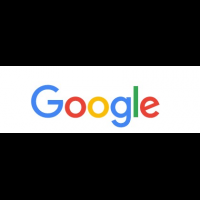
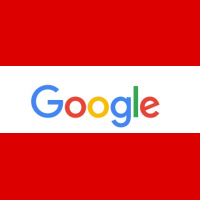
添加图片旋转功能

diff --git a/image/Image.php b/image/Image.php
@@ -10,7 +10,7 @@ class Image {
 	public $quality = 75;
 	
 	private $image, $filename, $original_info, $imagestring;
-	private $width, $height, $scale, $fixed_given_size, $keep_ratio, $given_width, $given_height, $bgcolor;
+	private $width, $height, $scale, $fixed_given_size, $keep_ratio, $given_width, $given_height, $bg_color, $angle;
 	
 	/**
 	 * Load an image
@@ -109,16 +109,6 @@ class Image {
 		return $this;
 	}
 	
-	/**
-	 * set background color
-	 * @param array $bgcolor
-	 * @return \com\jdk5\blog\Image\Image
-	 */
-	function bgcolor($bgcolor) {
-		$this->bgcolor = $bgcolor;
-		return $this;
-	}
-
 	/**
 	 * set generete image is fixed_given_size
 	 * @param boolean $fixed_given_size
@@ -233,10 +223,6 @@ class Image {
 		$this->given_height = ($this->given_height == 0 ? $height : $this->given_height);
 		
 		$this->copy($width, $height, 0, 0, 0, 0, $width, $height);
-		
-		if ($this->keep_ratio) {
-			$this->resize_image_and_keep_ratio();
-		}
 	}
 	
 	/**
@@ -286,8 +272,8 @@ class Image {
 				imagefill($new, 0, 0, $transparent_index);
 				imagecolortransparent($new, $transparent_index);
 	
-				if (!empty($this->bgcolor)) {
-					$bg = imagecolorallocate($new, $this->bgcolor[0], $this->bgcolor[1], $this->bgcolor[2]);
+				if (!empty($this->bg_color)) {
+					$bg = imagecolorallocate($new, $this->bg_color['r'], $this->bg_color['g'], $this->bg_color['b']);
 					imagefill($new, 0, 0, $bg);
 				}
 			}
@@ -297,9 +283,9 @@ class Image {
 			imagesavealpha($new, true);
 			$color = imagecolorallocatealpha($new, 0, 0, 0, 127);
 			imagefill($new, 0, 0, $color);
-			if (!empty($this->bgcolor)) {
-				$bg = imagecolorallocate($new, $this->bgcolor[0], $this->bgcolor[1], $this->bgcolor[2]);
-					imagefill($new, 0, 0, $bg);
+			if (!empty($this->bg_color)) {
+				$bg = imagecolorallocate($new, $this->bg_color['r'], $this->bg_color['g'], $this->bg_color['b']);
+				imagefill($new, 0, 0, $bg);
 			}
 		}
 		
@@ -333,8 +319,13 @@ class Image {
 	 *
 	 */
 	function save($filename = null, $quality = null, $format = null) {
+		if ($this->angle) {
+			$this->do_rotate();
+		}
 		$this->resize();
-		
+		if ($this->keep_ratio) {
+			$this->resize_image_and_keep_ratio();
+		}
 		// Determine quality, filename, and format
 		$quality = $quality ?  : $this->quality;
 		$filename = $filename ?  : $this->filename;
@@ -417,5 +408,112 @@ class Image {
 		}
 		
 		return $value;
+	}
+	
+	/**
+	 * Rotate an image
+	 *
+	 * @param int           $angle      0-360
+	 * @param string        $bg_color   Hex color string, array(red, green, blue) or array(red, green, blue, alpha).
+	 *                                  Where red, green, blue - integers 0-255, alpha - integer 0-127
+	 *
+	 * @return SimpleImage
+	 *
+	 */
+	function rotate($angle) {
+		$this->angle = $angle;
+		return $this;
+	}
+	
+	/**
+	 * set background color
+	 * @param array $bgcolor
+	 * @return \com\jdk5\blog\Image\Image
+	 */
+	function bg_color($bg_color){
+		$this->bg_color = $this->normalize_color($bg_color);
+		return $this;
+	}
+	
+	private function do_rotate() {
+		// Perform the rotation
+		if (empty($this->bg_color)) {
+			$bg_color = imagecolorallocatealpha($this->image, 0, 0, 0, 127);
+		} else {
+			$rgba = $this->normalize_color($this->bg_color);
+			$bg_color = imagecolorallocatealpha($this->image, $rgba['r'], $rgba['g'], $rgba['b'], $rgba['a']);			
+		}
+		$new = imagerotate($this->image, -($this->keep_within($this->angle, -360, 360)), $bg_color, 0);
+		imagesavealpha($new, true);
+		imagealphablending($new, true);
+		
+		// Update meta data
+		$this->original_info['width'] = imagesx($new);
+		$this->original_info['height'] = imagesy($new);
+		/* 
+		$this->width = imagesx($new);
+		$this->height = imagesy($new);
+		 */
+		$this->image = $new;
+		return $this;
+	}
+	
+	/**
+	 * Converts a hex color value to its RGB equivalent
+	 *
+	 * @param string        $color  Hex color string, array(red, green, blue) or array(red, green, blue, alpha).
+	 *                              Where red, green, blue - integers 0-255, alpha - integer 0-127
+	 *
+	 * @return array|bool
+	 *
+	 */
+	protected function normalize_color($color) {
+	
+		if (is_string($color)) {
+	
+			$color = trim($color, '#');
+	
+			if (strlen($color) == 6) {
+				list($r, $g, $b) = array(
+						$color[0].$color[1],
+						$color[2].$color[3],
+						$color[4].$color[5]
+				);
+			} elseif (strlen($color) == 3) {
+				list($r, $g, $b) = array(
+						$color[0].$color[0],
+						$color[1].$color[1],
+						$color[2].$color[2]
+				);
+			} else {
+				return false;
+			}
+			return array(
+					'r' => hexdec($r),
+					'g' => hexdec($g),
+					'b' => hexdec($b),
+					'a' => 0
+			);
+	
+		} elseif (is_array($color) && (count($color) == 3 || count($color) == 4)) {
+	
+			if (isset($color['r'], $color['g'], $color['b'])) {
+				return array(
+						'r' => $this->keep_within($color['r'], 0, 255),
+						'g' => $this->keep_within($color['g'], 0, 255),
+						'b' => $this->keep_within($color['b'], 0, 255),
+						'a' => $this->keep_within(isset($color['a']) ? $color['a'] : 0, 0, 127)
+				);
+			} elseif (isset($color[0], $color[1], $color[2])) {
+				return array(
+						'r' => $this->keep_within($color[0], 0, 255),
+						'g' => $this->keep_within($color[1], 0, 255),
+						'b' => $this->keep_within($color[2], 0, 255),
+						'a' => $this->keep_within(isset($color[3]) ? $color[3] : 0, 0, 127)
+				);
+			}
+	
+		}
+		return false;
 	}
 }

diff --git a/image/example/index.php b/image/example/index.php
@@ -12,13 +12,14 @@ $img->load('org.jpg')->height(200)->save('processed/org-height-resize.jpg');
 
 $img->load('org.png')->fixed_given_size(true)->keep_ratio(true)->save('processed/org-no-size-resize.png');
 
-$img->load('org.png')->bgcolor(array(100, 0, 0))->quality(100)->size(300, 300)->fixed_given_size(true)->keep_ratio(true)->save('processed/org-size-resize.png');
+$img->load('org.png')->bg_color("#a30000")->quality(100)->size(300, 300)->fixed_given_size(true)->keep_ratio(true)->save('processed/org-size-resize.png');
 
-$img->load('org.png')->bgcolor(array(0, 0, 0))->size(400, 100)->fixed_given_size(true)->keep_ratio(true)->save('processed/400_100.png');
+$img->load('org.png')->bg_color("#ff00ff")->size(400, 100)->fixed_given_size(true)->keep_ratio(true)->save('processed/400_100.png');
 
-$img->load('org.png')->bgcolor(array(0, 0, 0))->size(200, 200)->fixed_given_size(true)->keep_ratio(true)->save('processed/200_200.png');
+$img->load('org.png')->bg_color("#dd0000")->size(200, 200)->fixed_given_size(true)->keep_ratio(true)->save('processed/200_200.png');
 
-
+$img->load('org.png')->rotate(45)->bg_color("#ee2300")->size(250, 187)->fixed_given_size(true)->keep_ratio(true)->save('processed/rotate-45.png');
+$img->load('org.png')->rotate(20)->bg_color("#3300ff")->width(250)->fixed_given_size(true)->keep_ratio(true)->quality(90)->save('processed/rotate-20.jpg');
 
 header("Content-type: text/html; charset=utf-8");
 echo '<h1 style="text-align: center;">生成图片的结果</h1>';

diff --git a/README.md b/README.md
@@ -35,7 +35,7 @@ $img->load('org.jpg')
 	->size(300, 300)	//设置生成图片的宽度和高度
 	->fixed_given_size(true)	//生成的图片是否以给定的宽度和高度为准
 	->keep_ratio(true)		//是否保持原图片的原比例
-	->bgcolor(array(100, 0, 0))	//设置背景颜色，按照rgb格式
-	->quality(50)	//设置生成图片的质量 0-100
+	->bgcolor("#ffffff")	//设置背景颜色，按照rgb格式
+	->quality(50)	//设置生成图片的质量 0-100，如果生成的图片格式为png格式，数字越大，压缩越大，如果是其他格式，如jpg，gif，数组越小，压缩越大
 	->save('processed/org-width-resize.jpg');	//保存生成图片的路径
 ```
